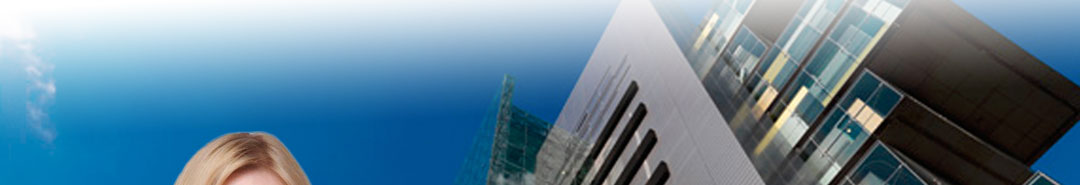
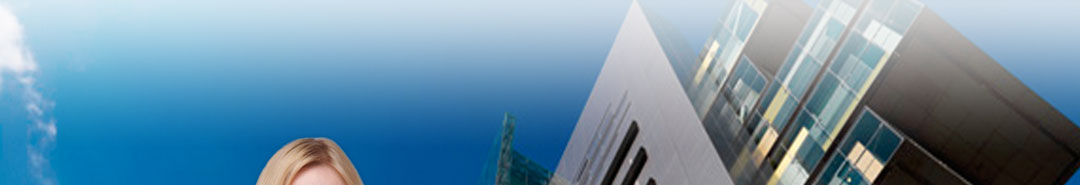
New narrower header

diff --git a/wp-content/themes/linen_pro/stylesheets/two.css b/wp-content/themes/linen_pro/stylesheets/two.css
@@ -18,7 +18,7 @@
 #navigation ul li a { padding: 2px 3px 2px 3px; background:rgb(255,255,255); background: transparent\9; background:rgba(255,255,255,0.5); filter:progid:DXImageTransform.Microsoft.gradient(startColorstr=#66ffffff,endColorstr=#66ffffff); zoom: 1;}
 #navigation ul li a:hover {text-decoration: underline;}
 #navigation { border:none; height:10px; }
-#featured {	padding: 0 0 25px 0;	margin: 0;	position: relative; clear:left;	z-index: 0;  /*background-color:#e7eaea;*/ background:url(../images/header-content.jpg) no-repeat; height:309px;}
+#featured {	padding: 0 0 25px 0;	margin: 0;	position: relative; clear:left;	z-index: 0;  /*background-color:#e7eaea;*/ background:url(../images/header-content.jpg) no-repeat; height:169px;}
 .container {width: 100%;	height: 300px;	position: relative;}
 #slides {	width: 100%;	position: absolute;	top: 0;	left: 0;}
 .slides_container {	width: 100%;	height: 300px;	overflow: hidden;	position: relative; }

diff --git a/wp-content/themes/linen_pro/stylesheets/master.css b/wp-content/themes/linen_pro/stylesheets/master.css
@@ -169,7 +169,7 @@ li.sfHover > a > .sf-sub-indicator {background-position: -10px -100px;}
 /*---------------------------------------------------------
 	6. Post styling
 ------------------------------------------------------------ */
-.post {margin-bottom: 30px;}
+.post {margin-bottom: 10px;}
 .entry {margin: 0 0 10px 124px;	font-size: 1em;}
 .entry a {text-decoration: underline;}
 .single .entry,
@@ -199,7 +199,7 @@ div.post-comments a:hover {color: #333;}
 /*Post Body
 ---------------------------------------*/
 .entry a:hover {text-decoration: underline;}
-.entry p {margin-bottom: 15px;	line-height: 1.8em;}
+.entry p {margin-bottom: 15px;	line-height: 1.4em;}
 .entry h2,
 .entry h3,
 .entry h4 {font-family: Helvetica, Arial, sans-serif;	font-size: 1.4em;	font-weight: normal;	padding: 20px 0 10px 0;}
